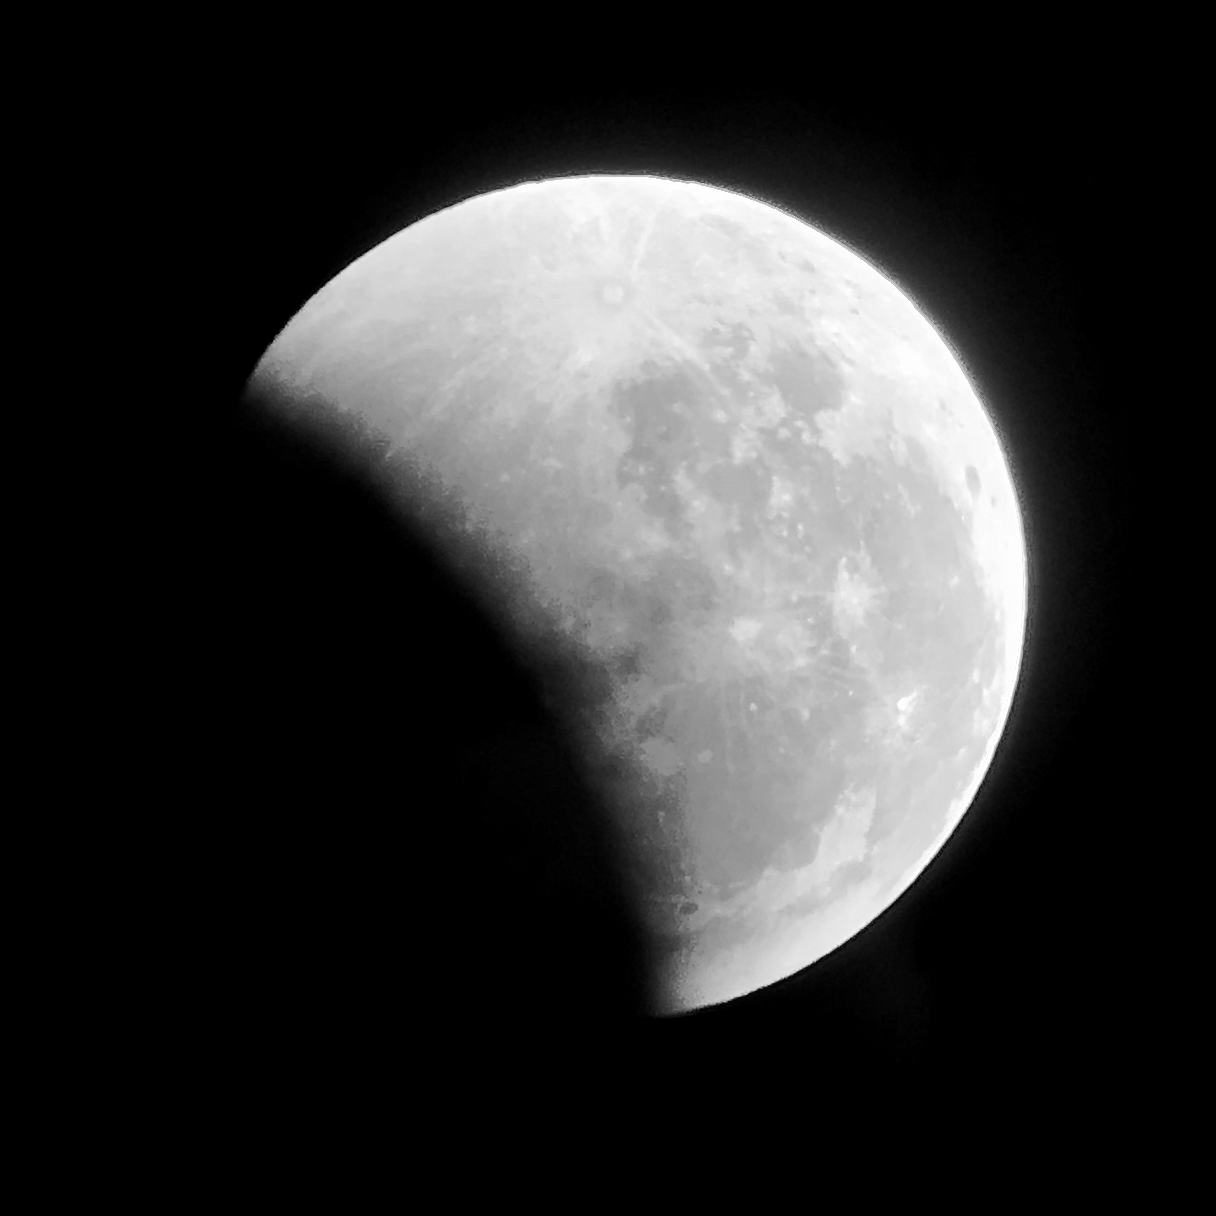
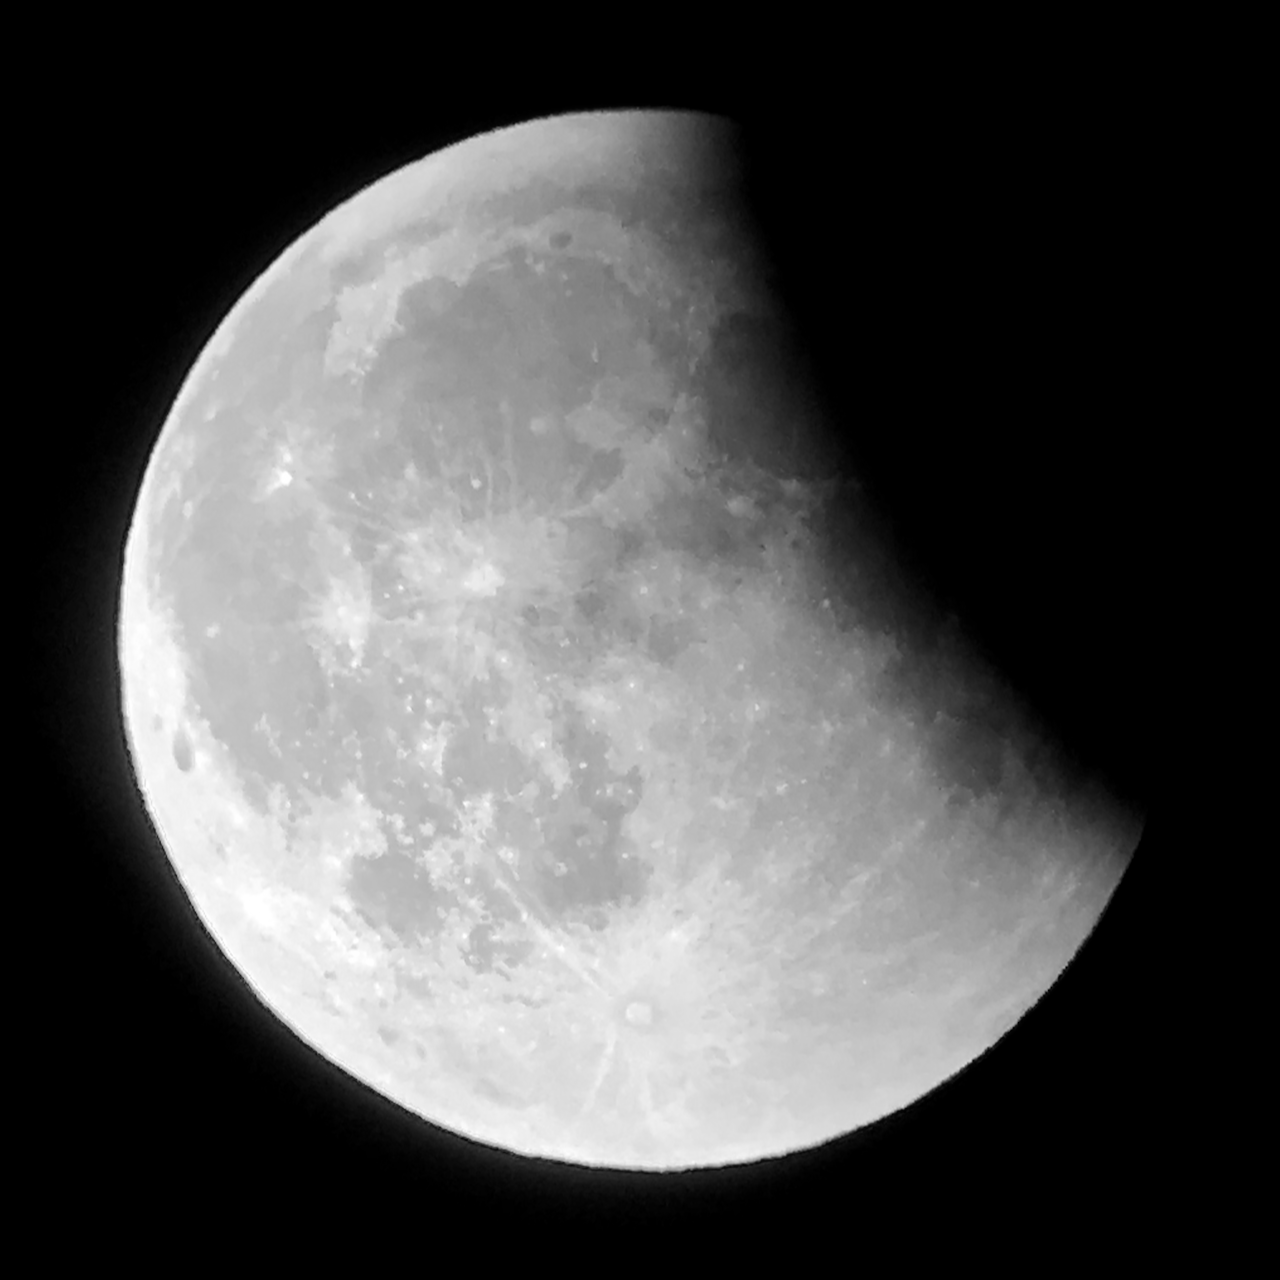
Ch1 Rotated eclipse to correct orientation and changed the caption.

diff --git a/volume01/chapter01/chapter01.tex b/volume01/chapter01/chapter01.tex
@@ -36,7 +36,7 @@ In the west, these musical discoveries were attributed to Pythagoras,\index{Pyth
 
 The Pythagoreans also sought an understanding of the cycles of nature – day and night, the seasons of the year, the Moon’s phases, and the motions of the visible planets. Simple ratios do not help: A year is about 365\onequarter\ days. A lunar month is about 29\onehalf\ days. There are about 12\onethird\ lunar months in a year. The motions of the five visible planets – Mercury, Venus, Mars, Jupiter, and Saturn – are even more complicated.
 
-\placefigure[margin][fig:LunarEclipse]{During a lunar eclipse the Moon passes through Earth’s shadow. The shadow’s curve reveals Earth’s round shape.} {\externalfigure[LunarEclipseMay2022][width=\rightmarginwidth]}
+\placefigure[margin][fig:LunarEclipse]{During a lunar eclipse, Earth casts a shadow on the Moon. The shadow’s round shape reveals Earth’s round shape.} {\externalfigure[LunarEclipseMay2022][width=\rightmarginwidth]}
 
 None the less, the Pythagoreans did recognize one interesting pattern: the objects that rule the rhythms of nature are all round. The Moon is obviously round. The Sun is round, as can be seen when its brightness is diminished by a thick veil of clouds. The Pythagoreans even knew Earth to be round because Earth casts its round shadow on the Moon during a lunar eclipse (fig. \in[fig:LunarEclipse]). Earth’s spherical shape was common knowledge among the educated even in ancient times. 
 
